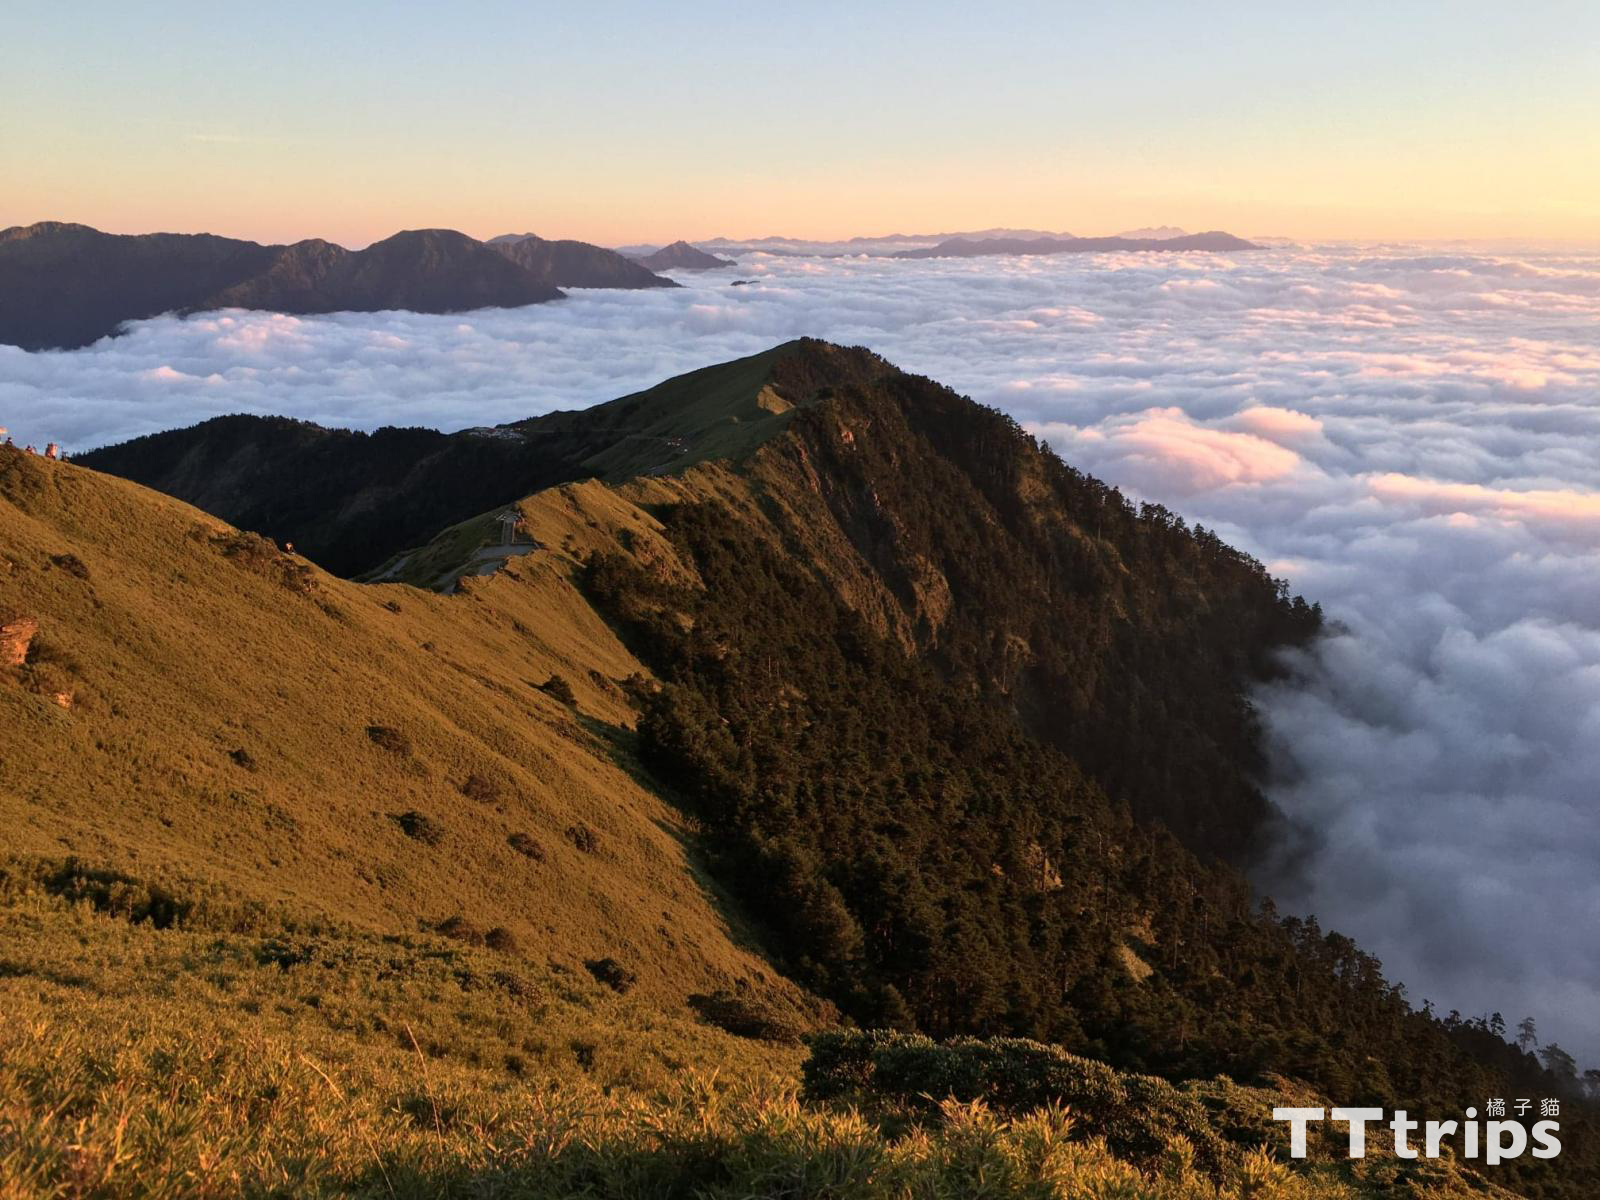
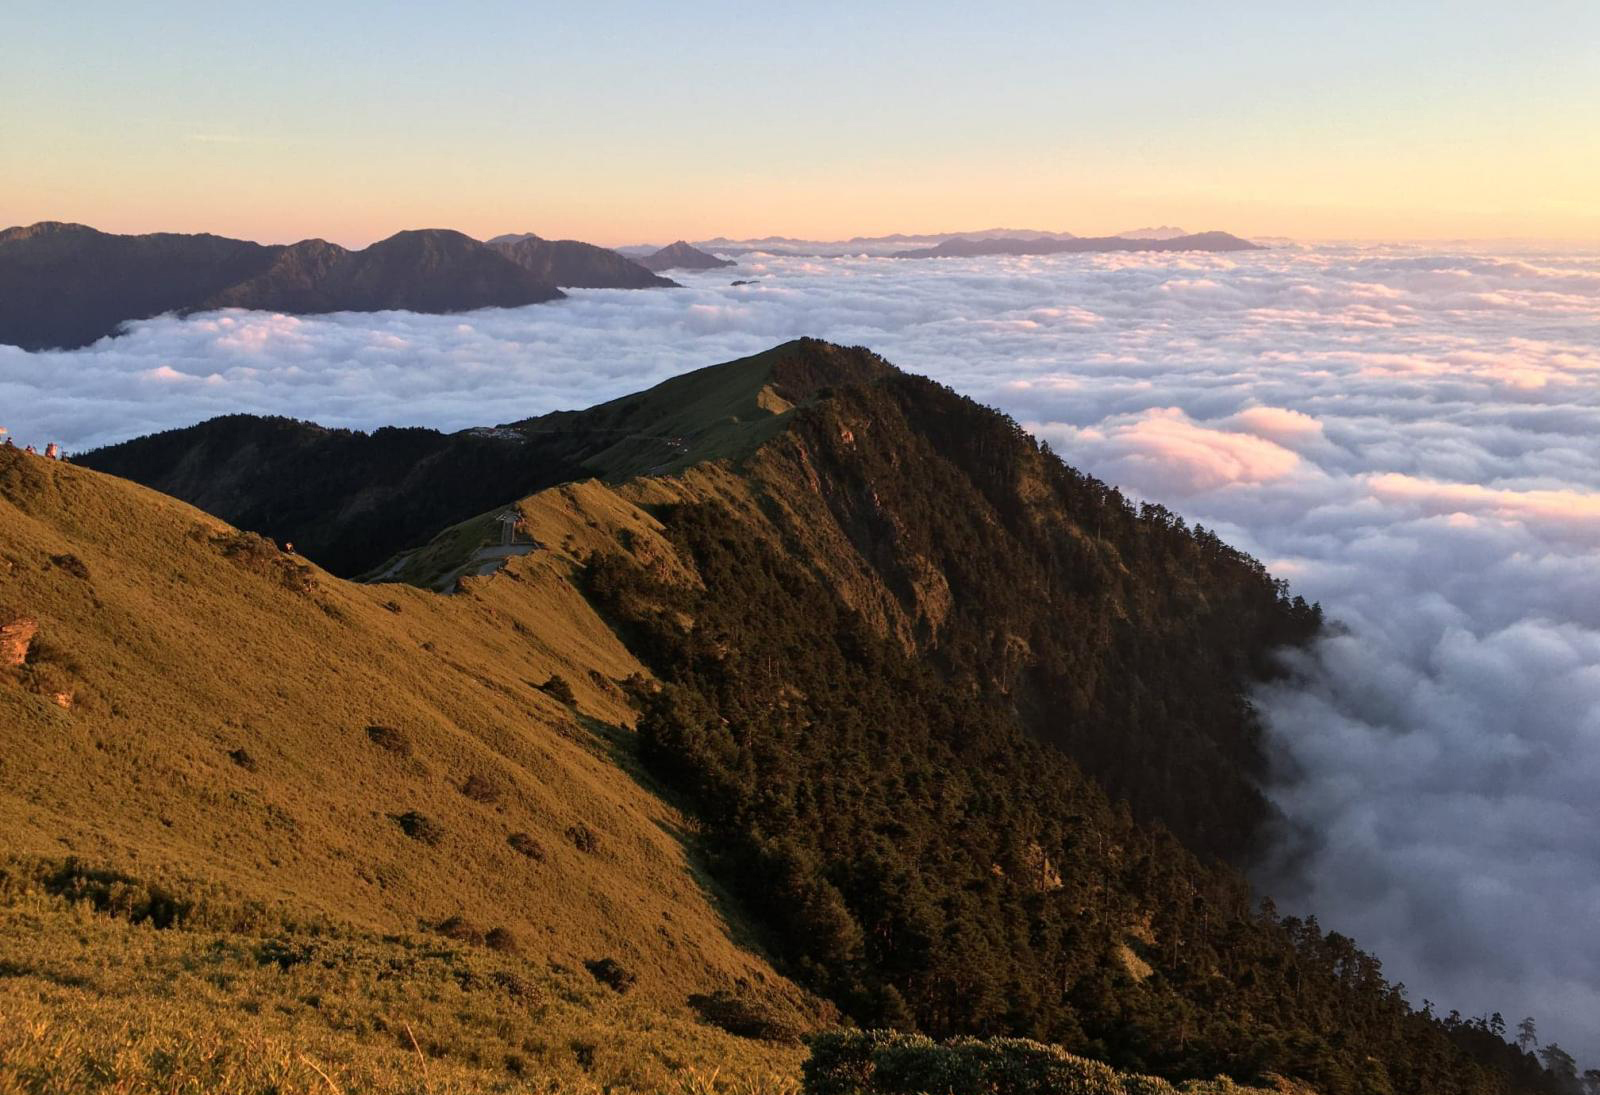
feat : popularRoutes section backend api

diff --git a/src/components/An/popularRoutes.vue b/src/components/An/popularRoutes.vue
@@ -10,32 +10,32 @@
              <!-- 左欄：主資訊 -->
             <div class="left">
                 <Transition name="fade" mode="out-in">
-                    <div class="route-detail" :key="activeRoute.id">
-                        <h2 class="route-title">[ {{ activeRoute.name }} ]</h2>
+                    <div class="route-detail" :key="activeRoute.MOUNTAIN_ID">
+                        <h2 class="route-title">[ {{ activeRoute.MOUNTAIN_NAME }} ]</h2>
 
                         <div class="meta">
                             <div class="meta-block">
                                 <span class="label">里程</span>
                                 <div class="value">
-                                    <strong class="num">{{ activeRoute.distance }}</strong>
-                                    <span class="unit">公里</span>
+                                    <strong class="num">{{ cleanDistance }}</strong>
                                 </div>
                             </div>
 
                             <div class="meta-block">
                                 <span class="label">花費時間</span>
                                 <div class="value">
-                                    <strong class="num">{{ activeRoute.time.hour }}</strong>
+                                    <!-- <strong class="num">{{ activeRoute.time.hour }}</strong>
                                     <span class="unit">小時</span>
                                     <strong class="num">{{ activeRoute.time.minute }}</strong>
-                                    <span class="unit">分鐘</span>
+                                    <span class="unit">分鐘</span> -->
+                                    <strong class="num">{{ activeRoute.TIME }}</strong>
                                 </div>
                             </div>
 
                             <div class="meta-block">
                                 <span class="label">難度</span>
                                 <div class="value">
-                                    <strong class="num">{{ activeRoute.difficulty }}</strong>
+                                    <strong class="num">{{ activeRoute.LEVEL }}</strong>
                                 </div>
                             </div>
                         </div>
@@ -49,17 +49,17 @@
                 <ul class="route-list">
                     <li
                         v-for="route in routes"
-                        :key="route.id"
+                        :key="route.MOUNTAIN_ID"
                         class="route-item"
                         tabindex="0"
                         @mouseenter="onHoverEnter(route)"
                         @focus="onHoverEnter(route)"
-                        :class="{ 'is-hovered': hoveredRoute && hoveredRoute.id === route.id }"
+                        :class="{ 'is-hovered': hoveredRoute && hoveredRoute.MOUNTAIN_ID === route.MOUNTAIN_ID }"
                     >
                         <div class="left-part">
-                            <img :src="route.imageUrl" alt="" class="avatar" />
+                            <img :src="`${baseUrl}images/Mountain/${route.MOUNTAIN_ID}/${route.IMAGE}`" alt="" class="avatar"/>
                             <div class="divider"></div>
-                            <a class="name" href="#">{{ route.name }}</a>
+                            <a class="name" href="#">{{ route.MOUNTAIN_NAME }}</a>
                         </div>
                         <button class="open">
                             <svg class="arrow" viewBox="0 0 24 24" aria-hidden="true">
@@ -89,7 +89,6 @@
 import { ref, computed, onMounted } from 'vue'
 import axios from 'axios'
 
-const MAX_ITEMS = 6
 
 const routes = ref([])
 const hoveredRoute = ref(null)
@@ -103,12 +102,21 @@ const featured = ref({
 
 // 👉 用滑入項目，否則 fallback 到精選
 const activeRoute = computed(() => hoveredRoute.value || featured.value)
+const cleanDistance = computed(() => {
+    const d = activeRoute.value.DISTANCE
+    return d ? d.replace('單程', '') : ''
+})
+
 function onHoverEnter(route) { hoveredRoute.value = route }
 
-const USE_FAKE = true
-const API_ENDPOINT = USE_FAKE
-    ? import.meta.env.BASE_URL + 'json/homepage/routes.json'
-    : 'api/routes'
+const USE_FAKE = false
+const baseUrl = import.meta.env.BASE_URL
+
+const API_URL = USE_FAKE
+? baseUrl + 'json/homepage/routes.json'
+: `${import.meta.env.VITE_AJAX_URL}/filterCard.php`
+
+const MAX_ITEMS = 6 //最大顯示筆數
 
 const loading = ref(false)
 const error = ref('')
@@ -117,7 +125,7 @@ async function fetchRoutes() {
     loading.value = true
     error.value = ''
     try {
-        const { data } = await axios.get(API_ENDPOINT)
+        const { data } = await axios.get(API_URL)
         const arr = Array.isArray(data) ? data : (data.items ?? [])
 
         routes.value = arr.slice(0, MAX_ITEMS)
@@ -126,7 +134,7 @@ async function fetchRoutes() {
         featured.value = routes.value[0]
         }
     } catch (e) {
-        error.value = e?.message ?? '載入失敗'
+        error.value = e?.message ?? '載入失敗😓'
     } finally {
         loading.value = false
     }

diff --git a/src/pages/homePage.vue b/src/pages/homePage.vue
@@ -33,11 +33,17 @@ const activities = ref([])
 const loading = ref(false)
 const error = ref('')
 
+const USE_FAKE = false
+const baseUrl = import.meta.env.BASE_URL
+
+const API_URL = USE_FAKE
+? baseUrl + 'json/homepage/activities.json'
+: `${import.meta.env.VITE_AJAX_URL}/eventCard.php`
+
 onMounted(async () => {
     loading.value = true
     try {
-        const { data } = await axios.get(import.meta.env.BASE_URL + 'json/homepage/activities.json') // 或 /api/activities
-        // 假資料為純陣列；若後端回 {items,total} 則用 data.items ?? []
+        const { data } = await axios.get(API_URL)
         activities.value = Array.isArray(data) ? data : (data.items ?? [])
     } catch (e) {
         error.value = e?.message ?? '載入失敗😓'

diff --git a/src/components/Pei/FilterRoute.vue b/src/components/Pei/FilterRoute.vue
@@ -12,7 +12,7 @@ import axios from 'axios';
 
 // 先把 BASE_URL 存成變數，避免在 template 直接寫 import.meta
 // 取得部署子目錄，如 '/tjd102/g2/' 
-const baseUrl = import.meta.env.BASE_URL                              
+const baseUrl = import.meta.env.BASE_URL                             
 
 // 小工具：把 JSON 裡的相對路徑拼成可用網址
 // 回傳拼好的完整路徑

diff --git a/public/PHP/filterCard.php b/public/PHP/filterCard.php
@@ -9,7 +9,7 @@ $response = ['ok' => false, 'data' => [], 'error' => null];   // 預設回傳
 include 'conn.php'; 
 
 
-$sql = "SELECT m.MOUNTAIN_ID, m.MOUNTAIN_NAME, m.REGION, m.DIFF, m.TYPE, img.IMAGE,m.TRAFFIC, m.TIME
+$sql = "SELECT m.MOUNTAIN_ID, m.MOUNTAIN_NAME, m.REGION, m.DIFF, m.LEVEL, m.TYPE, img.IMAGE, m.TRAFFIC, m.DISTANCE, m.TIME
 FROM MOUNTAIN m
 	JOIN MOUNTAIN_IMAGE img
     ON m.MOUNTAIN_ID = img.MOUNTAIN_ID
